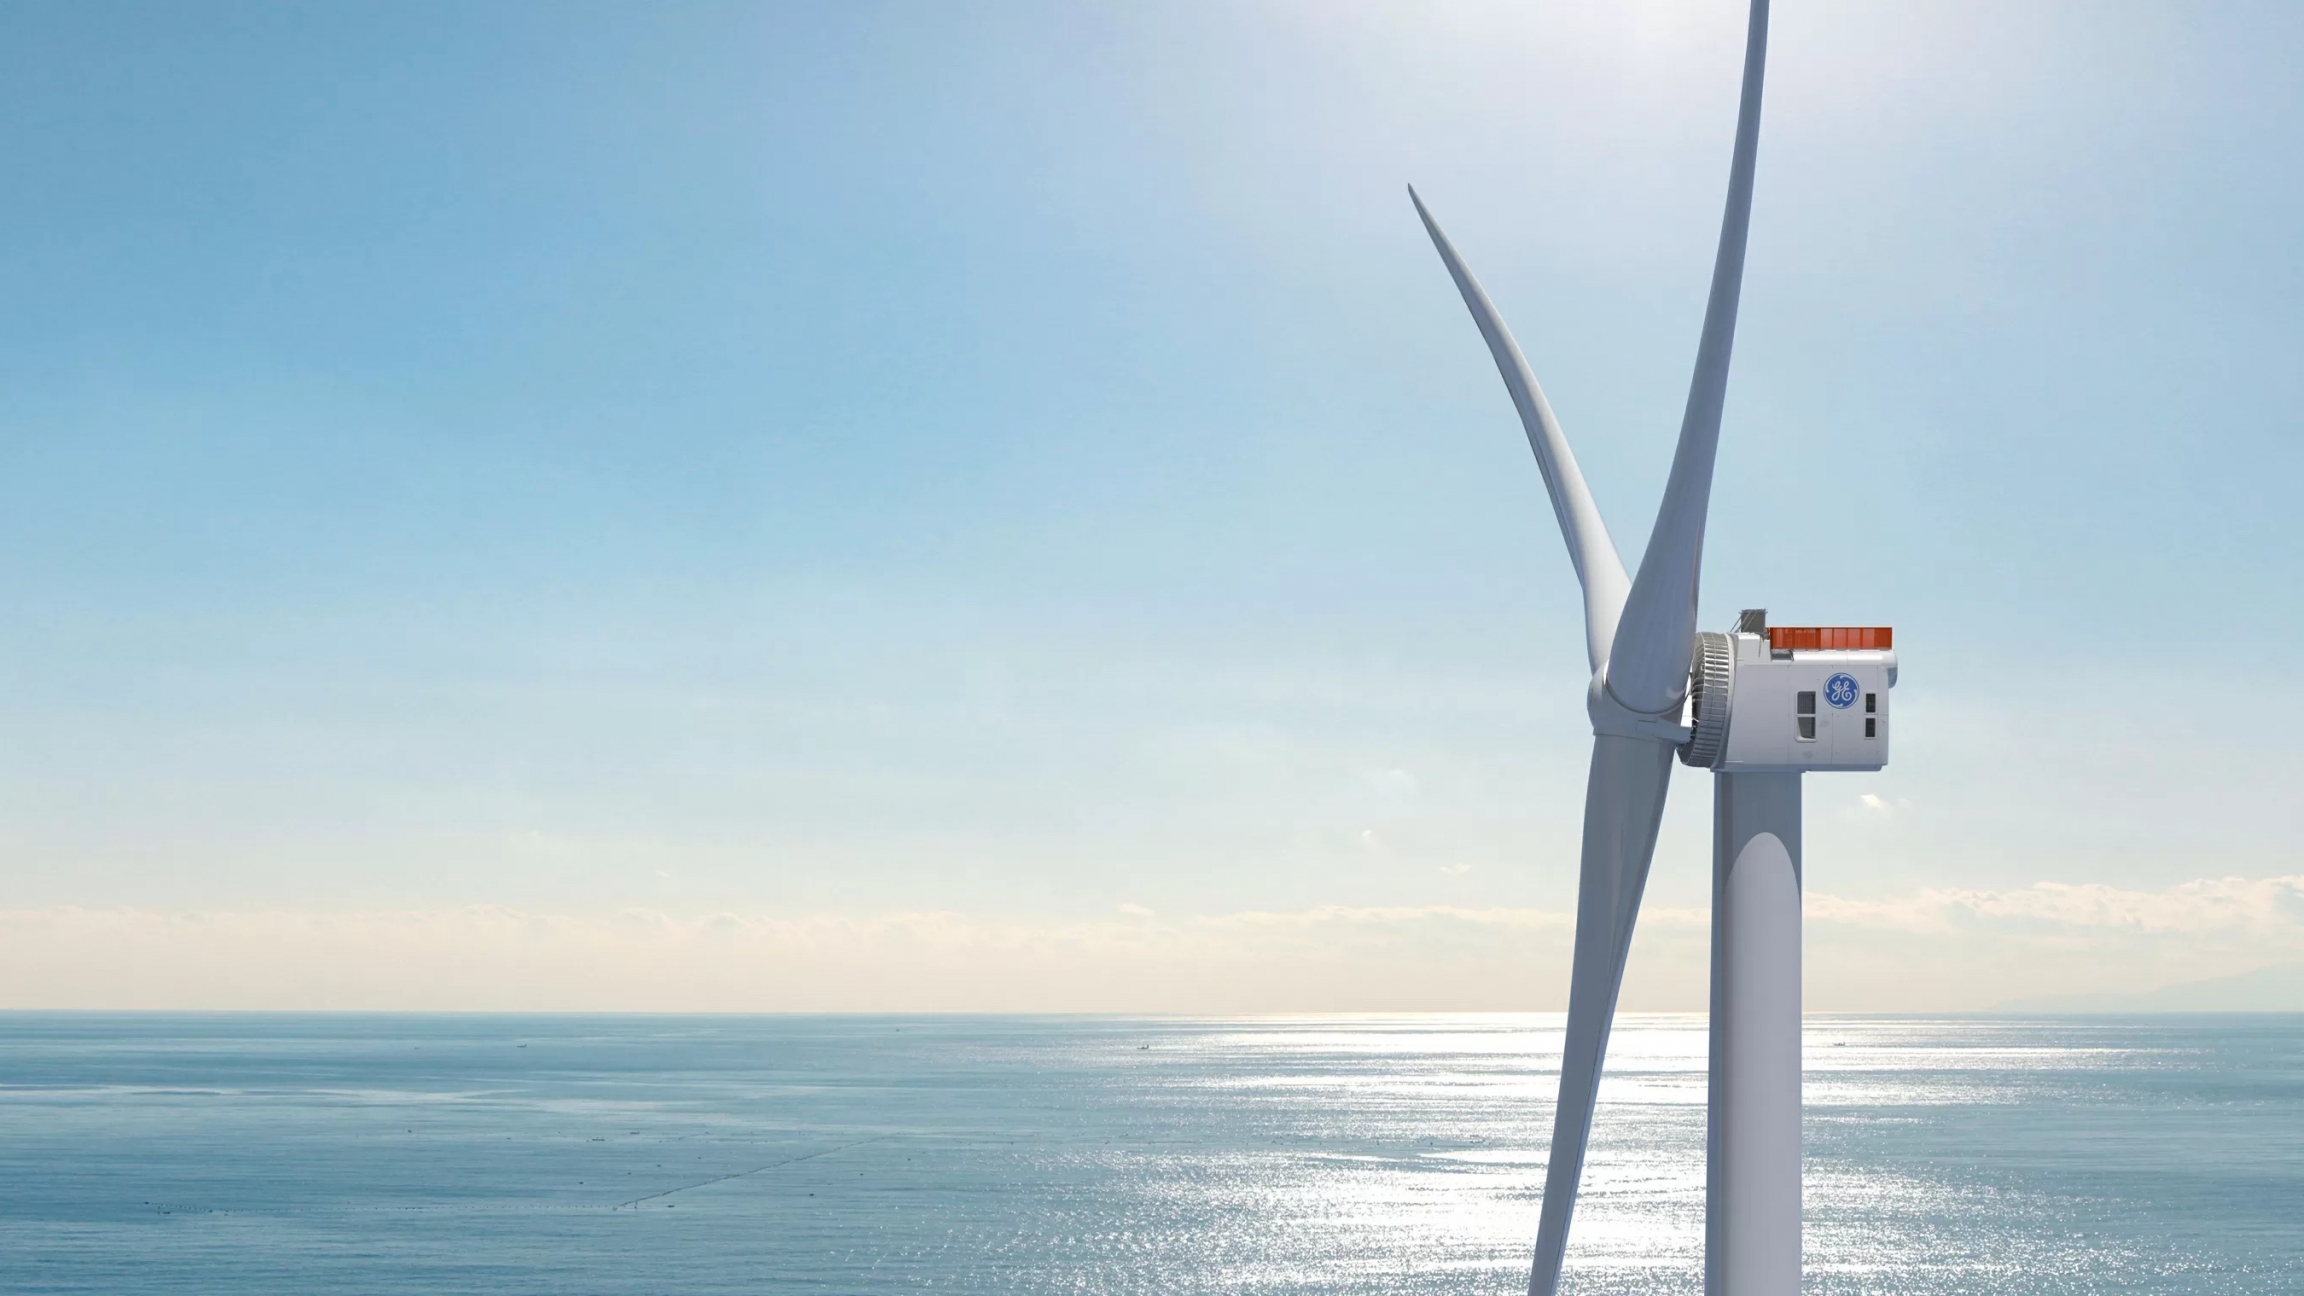
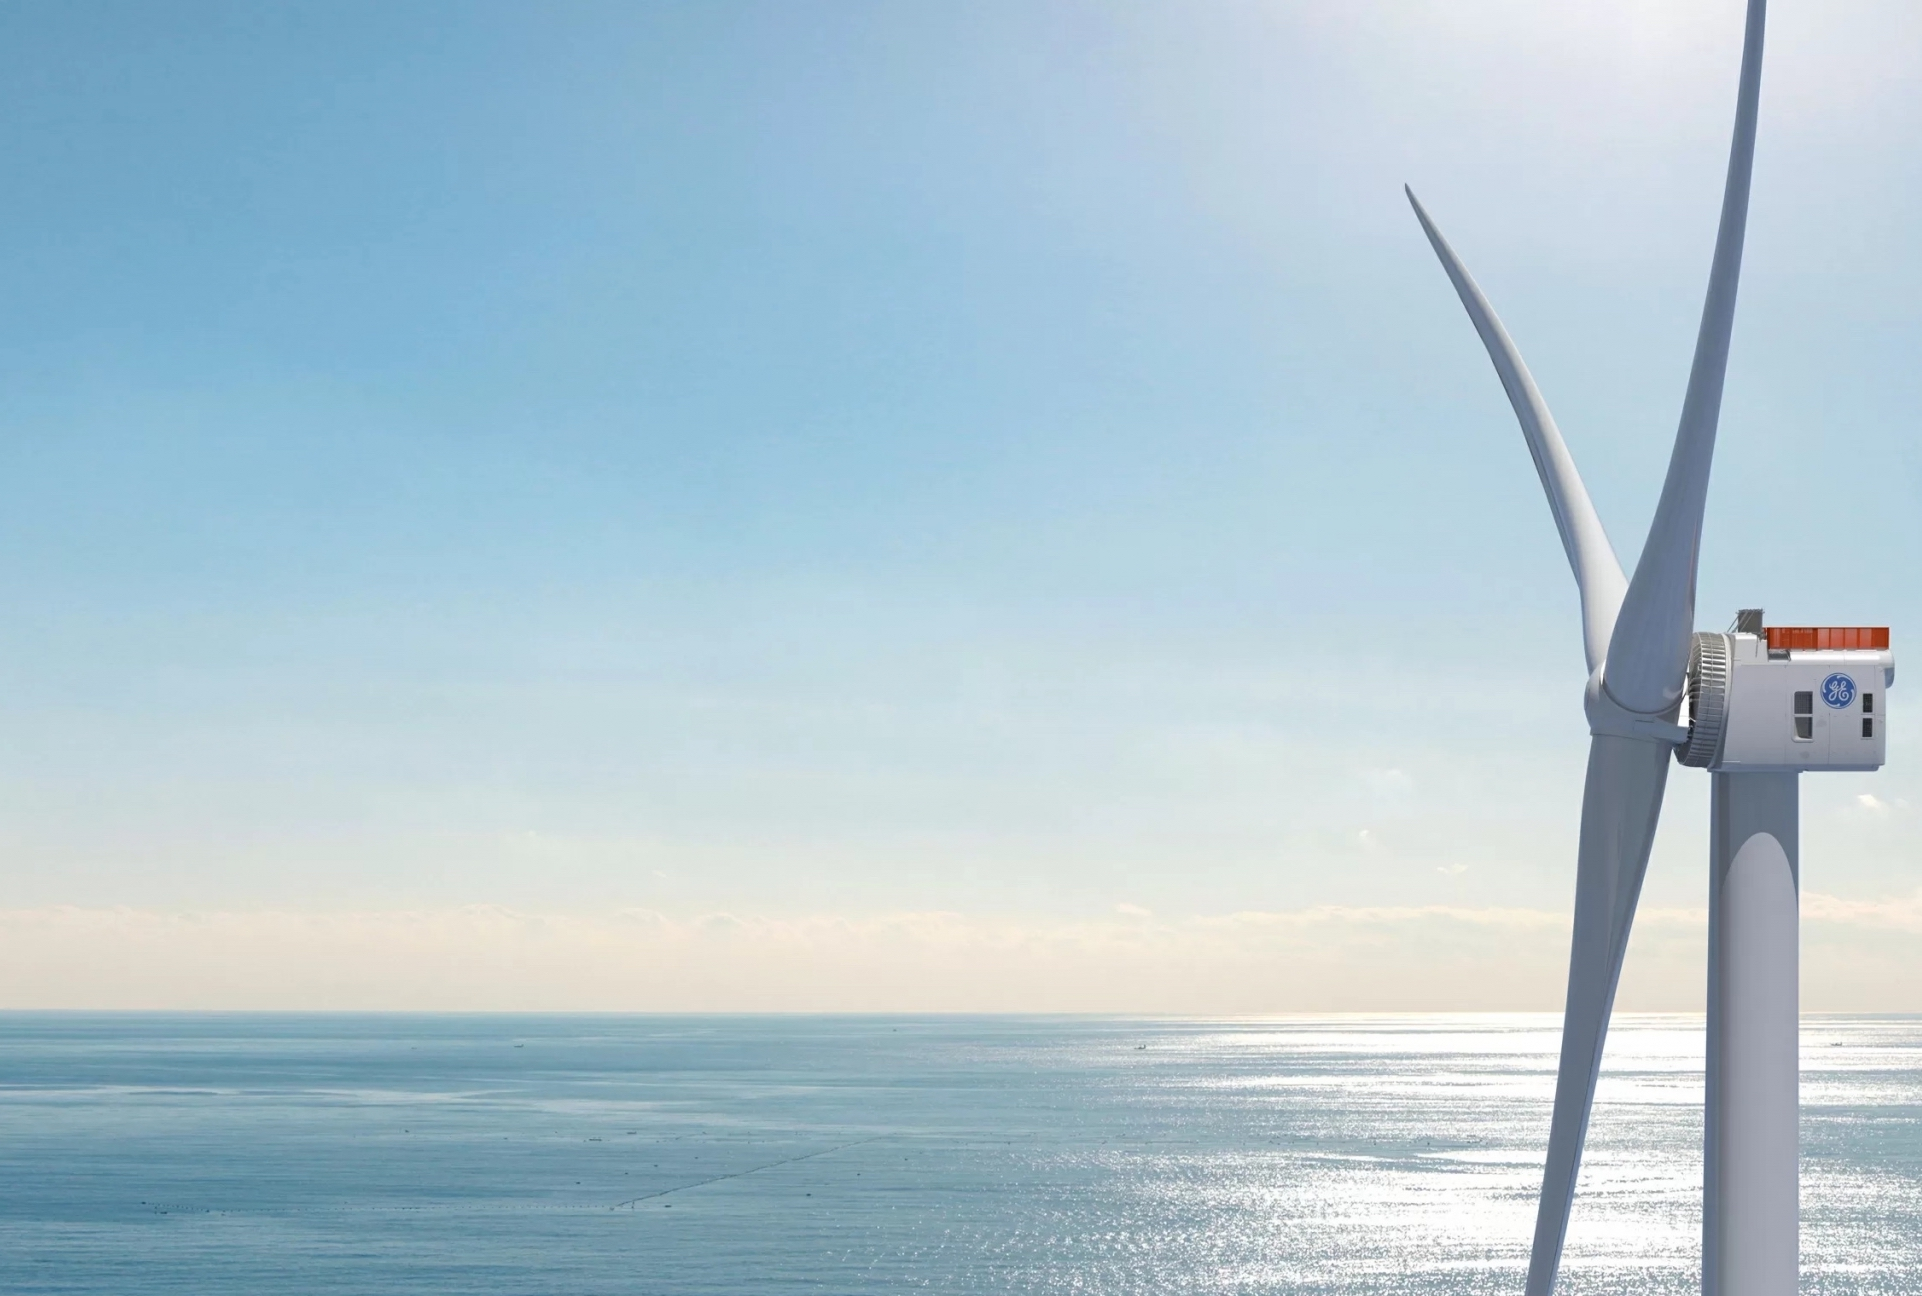
fixed layout wind

diff --git a/src/index.css b/src/index.css
@@ -137,7 +137,7 @@ canvas {
   margin-top: 0;
   margin-left: 20px;
   height: 400px;
-  margin-right: 450px;
+  margin-right: 20px;
   justify-content: center;
 }
 
@@ -236,8 +236,8 @@ canvas {
   flex-basis: 40%;
 }
 .content-wind {
-  background-image: url('./Images/wind-turbine-background.jpeg');
-  background-size: contain;
+  background-image: url('./Images/windTurbine.jpeg');
+  background-size:cover;
   display: flex;
   flex-direction: column;
 
@@ -253,7 +253,7 @@ canvas {
 
 .content-hydroelectric {
   background-image: url('./Images/hydroelectric-bg.jpeg');
-  background-size: contain;
+  background-size: cover;
   display: flex;
   flex-direction: column;
 
@@ -261,7 +261,7 @@ canvas {
 
 .content-solar {
   background-image: url('./Images/solar-bg-small.jpeg');
-  background-size: contain;
+  background-size: cover;
   display: flex;
   flex-direction: column;
 
